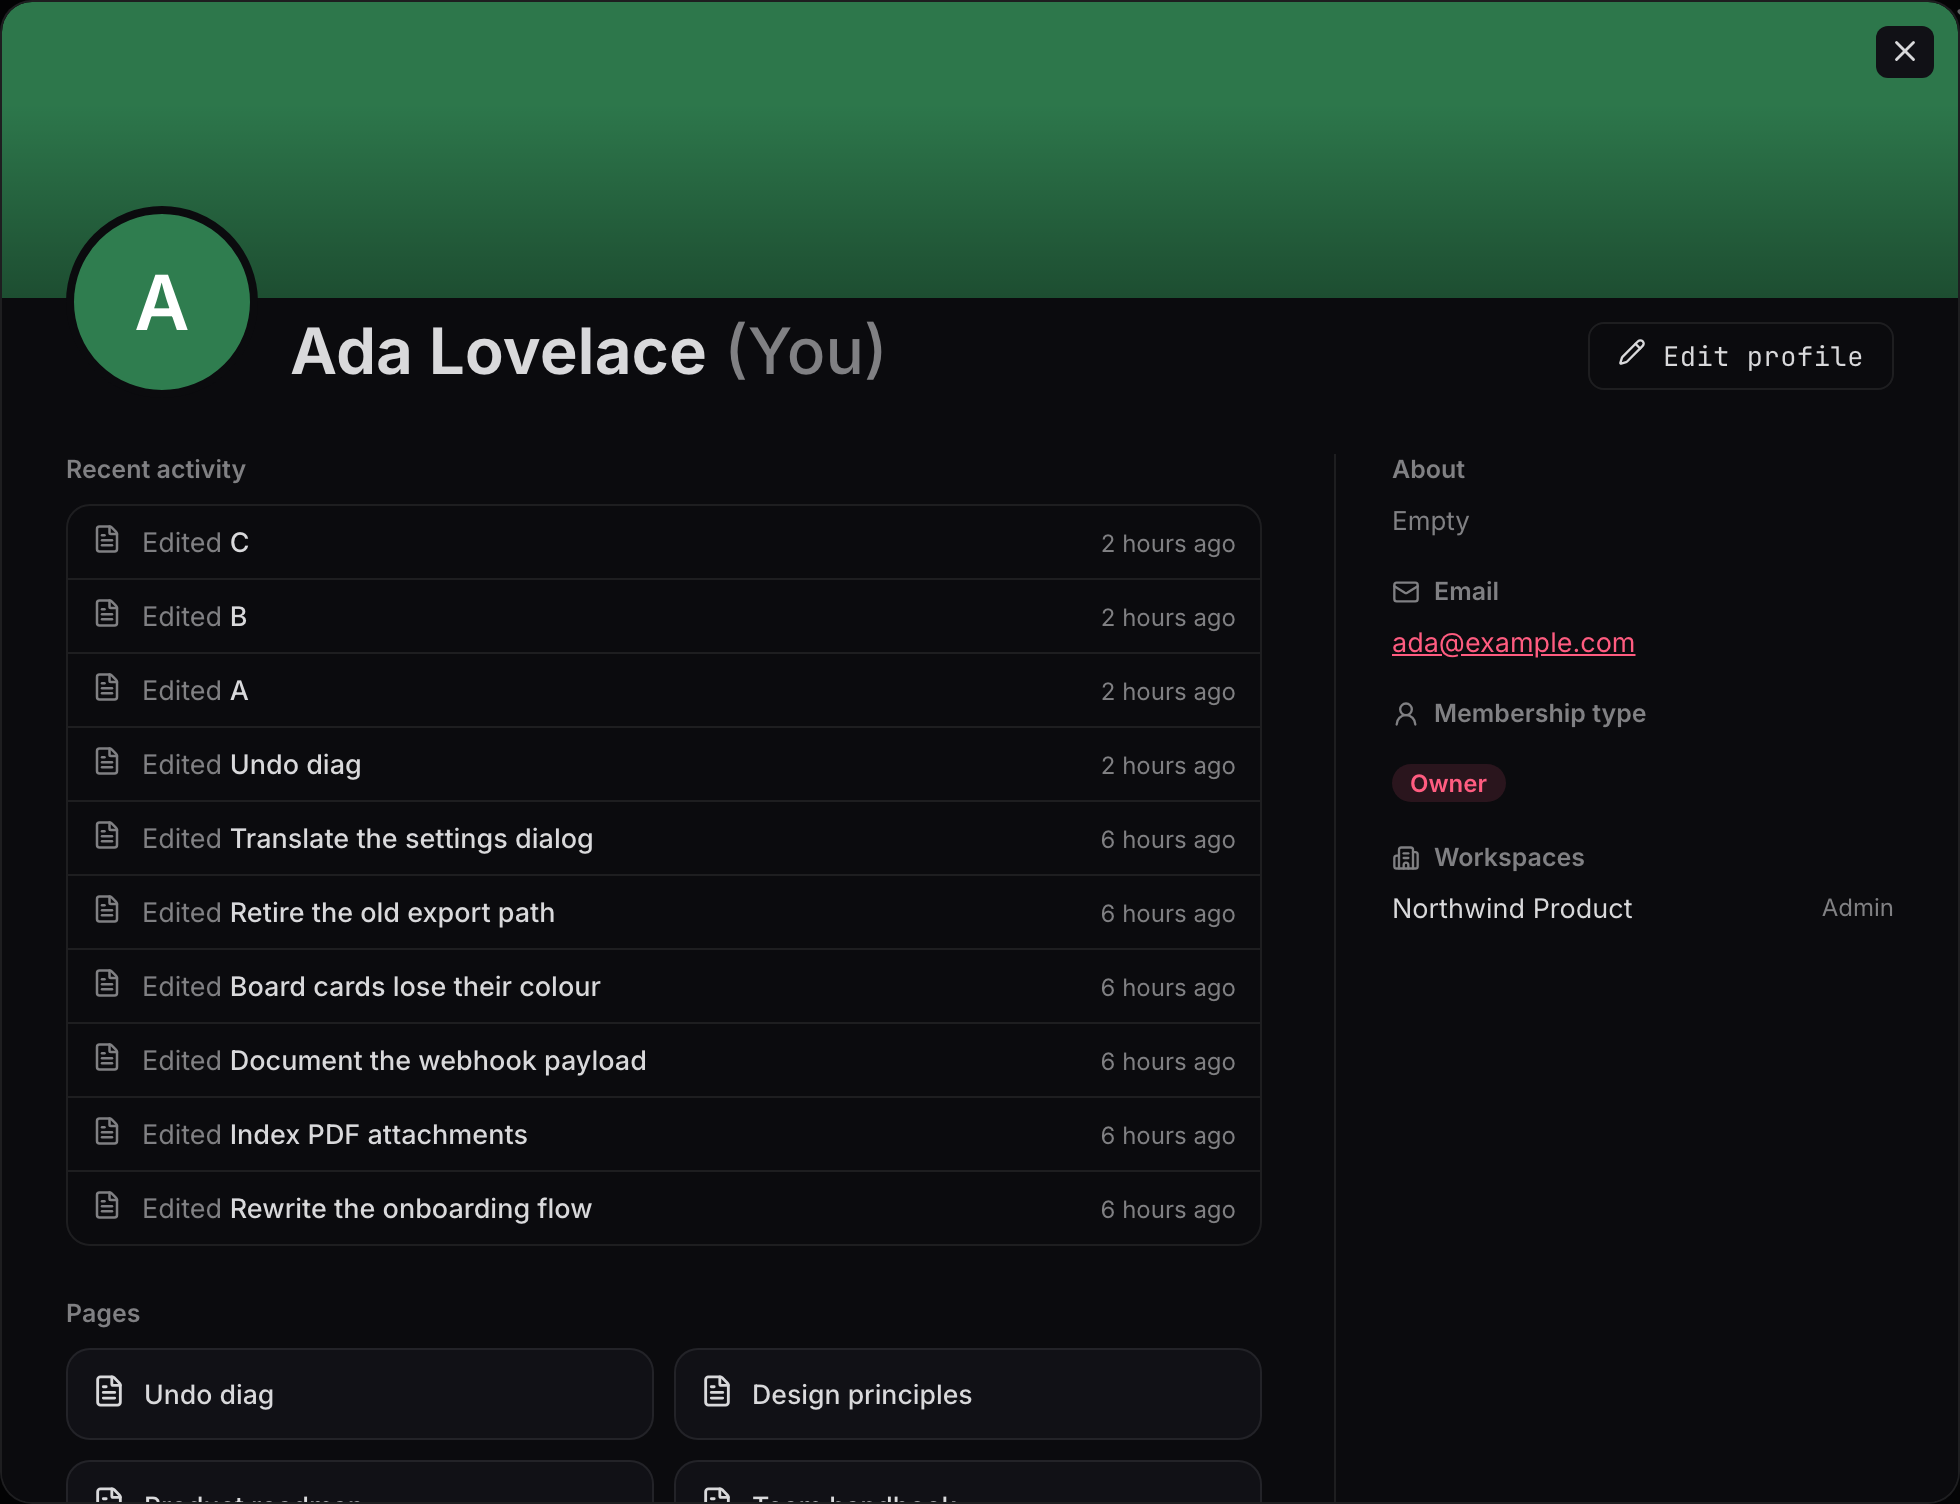
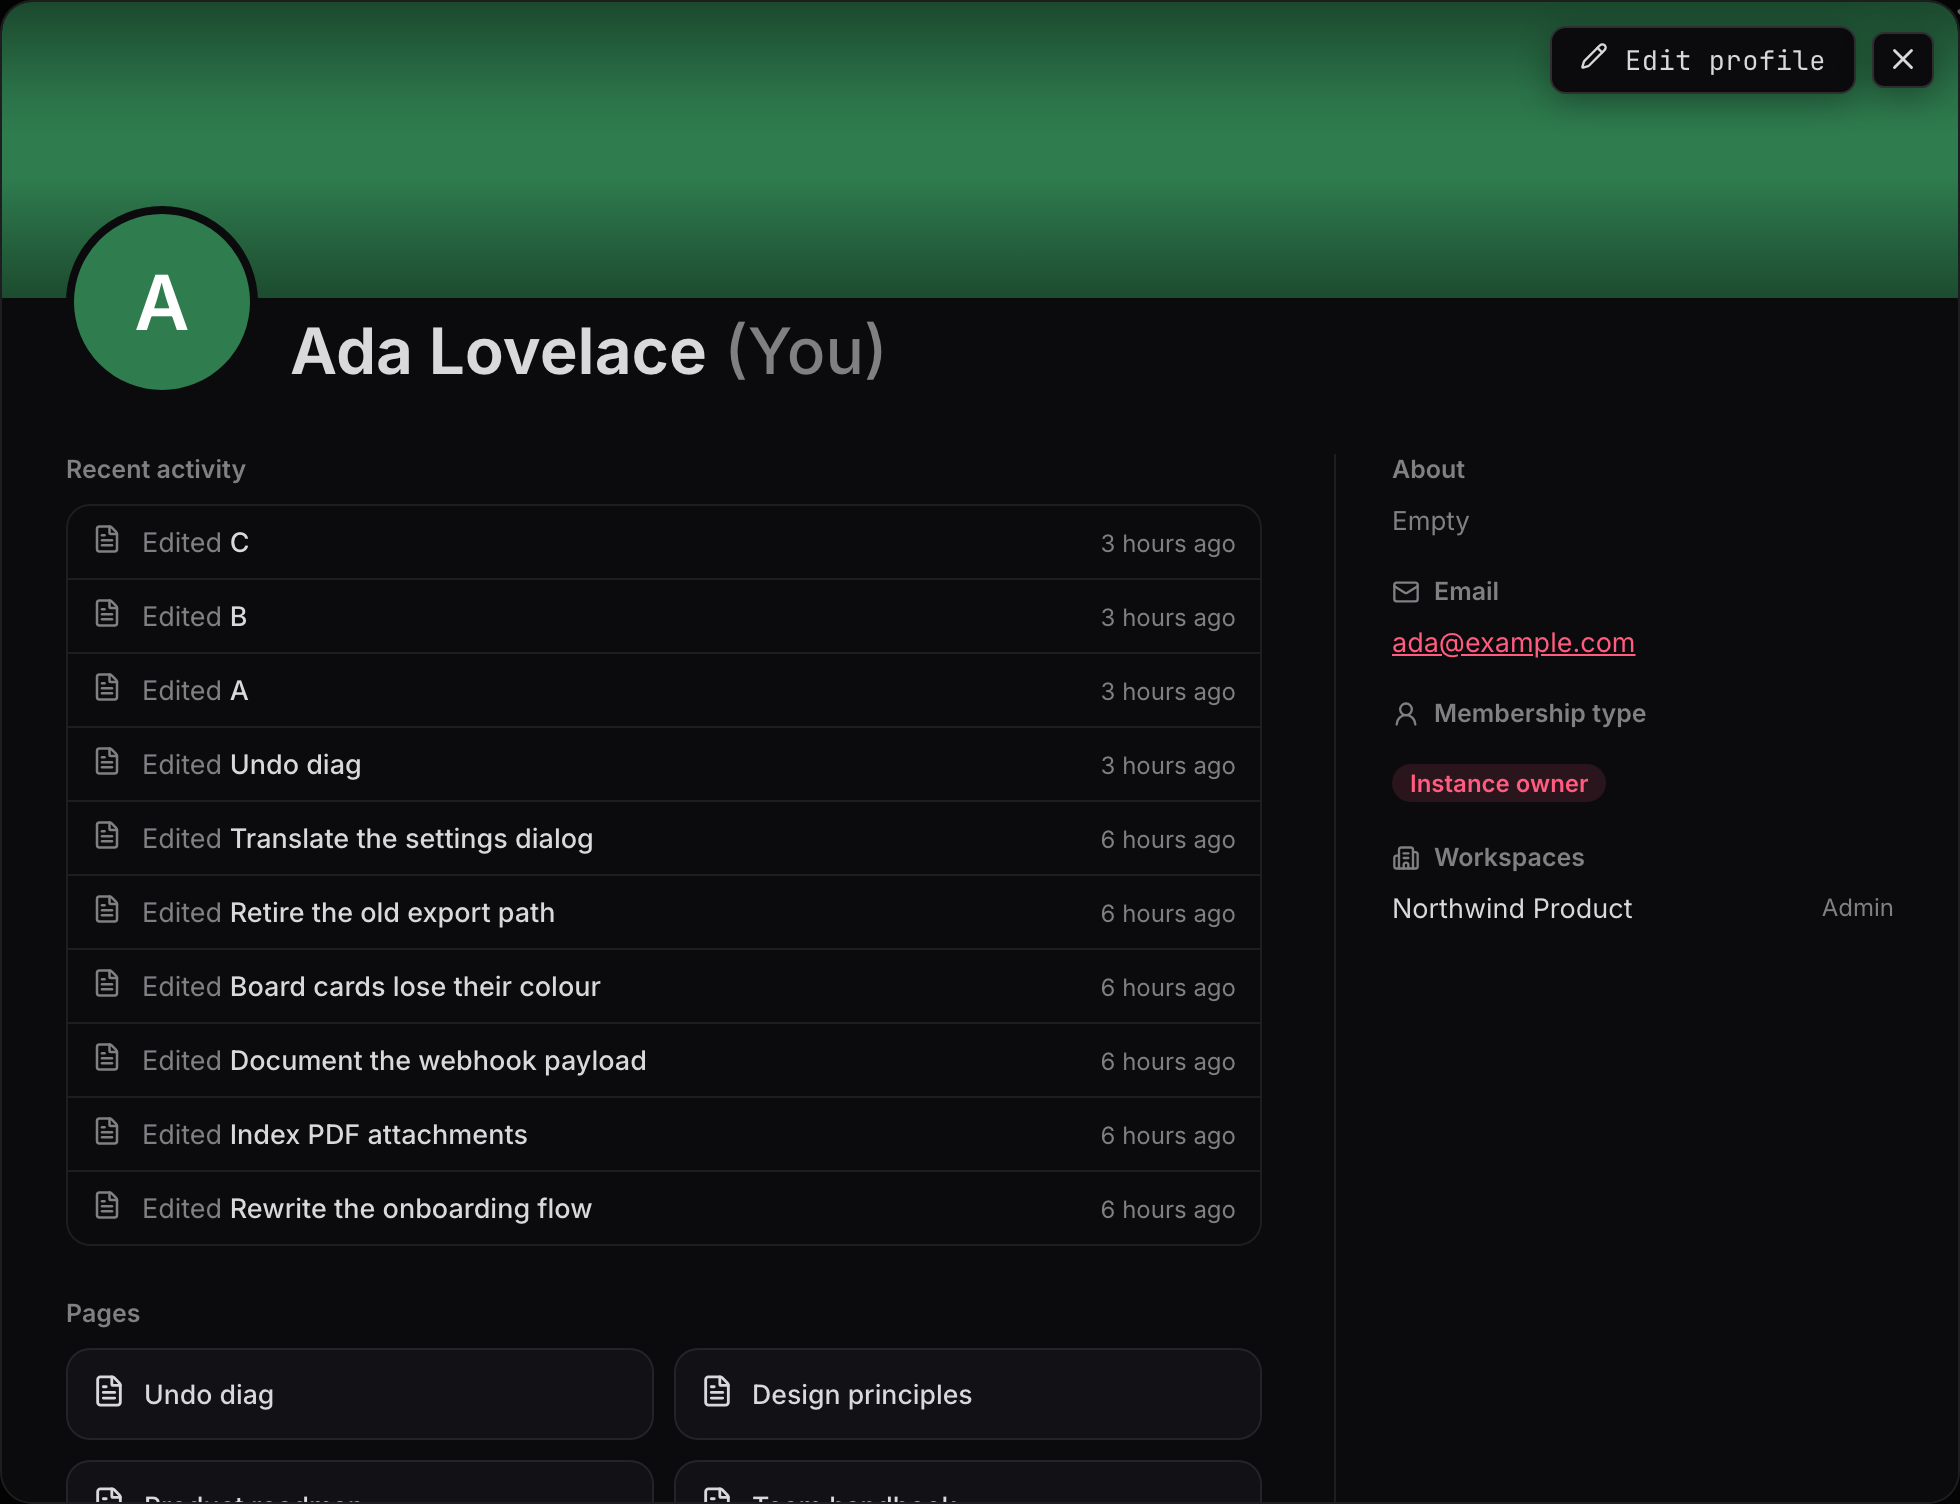
Account page: the name gets its line, contacts come first on a phone
Three things the first phone screenshot showed. A long name broke
mid-word into three lines because the edit button shared its row; the
button now sits with the close at the top, over the cover, so the name
has the full width (and `break-word` rather than `anywhere` keeps normal
words whole). On a phone the side column — email, membership, shared
workspaces — comes before the activity and pages: contacts and
memberships are what "who is this" means.

The top actions needed a plate of their own: theme.css makes a plain
.btn transparent, and over a cover that read as bare text on the colour.
Both buttons now have a solid background, a border and a shadow, and the
cover carries a dark fade at its top edge so the row sits on something.
The membership chip also says "Instance owner" rather than the Owner
column's "Ответственный".

Phone screenshot of the result and the retaken wiki image are in the
same commit.

Changed region(s): [[0.0, 0.0, 1.0, 0.0938], [0.7158, 0.5, 0.8403, 0.5312], [0.8403, 0.2188, 0.9337, 0.25]]

diff --git a/web/src/styles.css b/web/src/styles.css
@@ -13161,12 +13161,27 @@ a,
   box-shadow: 0 32px 80px -32px rgba(0, 0, 0, 0.7);
 }
 
-.person-close {
+/* Page actions sit over the cover, clear of the content: the name row gets
+   the whole width, and the edit button never squeezes a long name into
+   three-letter lines. */
+.person-actions {
   position: absolute;
   top: 12px;
   right: 12px;
   z-index: 2;
-  background: var(--card);
+  display: flex;
+  align-items: center;
+  gap: 8px;
+}
+
+/* A plate of its own: theme.css makes a plain .btn transparent (the site's
+   glass button), and over a cover that read as bare text floating on the
+   colour. The selector is more specific than that rule, not !important. */
+.person-actions .btn:not(.primary):not(.danger),
+.person-close {
+  background: var(--bg);
+  border: 1px solid var(--border-strong);
+  box-shadow: 0 4px 16px rgba(0, 0, 0, 0.32);
 }
 
 .person-cover {
@@ -13179,14 +13194,24 @@ a,
   display: block;
   width: 100%;
   height: 100%;
-  background: linear-gradient(180deg, rgba(0, 0, 0, 0.05) 35%, rgba(0, 0, 0, 0.38) 100%);
+  /* Darkened at both ends: the top so the action buttons have something to
+     sit on, the bottom so the face and name land on the cover cleanly. */
+  background: linear-gradient(
+    180deg,
+    rgba(0, 0, 0, 0.42) 0%,
+    rgba(0, 0, 0, 0.1) 30%,
+    rgba(0, 0, 0, 0) 46%,
+    rgba(0, 0, 0, 0) 58%,
+    rgba(0, 0, 0, 0.4) 100%
+  );
 }
 
 .person-head {
   position: relative;
   display: flex;
   align-items: flex-end;
-  gap: 16px;
+  flex-wrap: wrap;
+  gap: 12px 16px;
   padding: 0 32px 6px;
   margin-top: -46px;
 }
@@ -13212,8 +13237,11 @@ a,
   object-fit: cover;
 }
 
+/* A basis rather than a bare grow: when the head runs out of room the edit
+   button moves to its own line instead of squeezing the name into three
+   letters per line. */
 .person-head-text {
-  flex: 1;
+  flex: 1 1 220px;
   min-width: 0;
   padding-bottom: 4px;
 }
@@ -13223,7 +13251,9 @@ a,
   font-size: clamp(24px, 3.6vw, 32px);
   line-height: 1.15;
   font-weight: 650;
-  overflow-wrap: anywhere;
+  /* break-word, not anywhere: an unbroken long name still wraps, but ordinary
+     words keep whole instead of splitting mid-word in a narrow box. */
+  overflow-wrap: break-word;
 }
 
 .person-you {
@@ -13242,11 +13272,6 @@ a,
   margin: 6px 0 0;
   color: var(--muted);
   font-size: 13.5px;
-}
-
-.person-edit {
-  flex: none;
-  margin-bottom: 4px;
 }
 
 .person-body {

diff --git a/web/src/components/PersonPage.tsx b/web/src/components/PersonPage.tsx
@@ -21,7 +21,9 @@ import Portal from './Portal';
 function roleWord(role: string | undefined): string {
   switch (role) {
     case 'owner':
-      return t('Owner');
+      // Not t('Owner'): that source is the usual name of an Owner column and
+      // reads "Ответственный" in Russian. This is the instance owner.
+      return t('Instance owner');
     case 'admin':
       return t('Admin');
     case 'member':
@@ -83,9 +85,16 @@ export default function PersonPage({
         }}
       >
         <div className="person-page" role="dialog" aria-modal="true" aria-label={user ? user.name : t('Account')}>
-          <button className="person-close icon-btn" onClick={onClose} aria-label={t('Close')} title={t('Close')}>
-            <X size={17} />
-          </button>
+          <div className="person-actions">
+            {profile?.isYou && onEditSelf && (
+              <button className="btn person-edit" onClick={onEditSelf}>
+                <Pencil size={14} /> {t('Edit profile')}
+              </button>
+            )}
+            <button className="person-close icon-btn" onClick={onClose} aria-label={t('Close')} title={t('Close')}>
+              <X size={17} />
+            </button>
+          </div>
 
           {!profile ? (
             <div className="person-empty dialog-hint">
@@ -121,11 +130,6 @@ export default function PersonPage({
                   {nick && <div className="person-nick">@{nick}</div>}
                   {user!.about ? <p className="person-about-lead">{user!.about}</p> : null}
                 </div>
-                {profile.isYou && onEditSelf && (
-                  <button className="btn person-edit" onClick={onEditSelf}>
-                    <Pencil size={14} /> {t('Edit profile')}
-                  </button>
-                )}
               </div>
 
               <div className="person-body">

diff --git a/web/src/mobile.css b/web/src/mobile.css
@@ -1536,24 +1536,25 @@ body.tabs-dragging .tabs-sheet-card {
     font-size: 24px;
   }
 
-  .person-edit {
-    margin-left: auto;
-  }
-
   .person-body {
     grid-template-columns: 1fr;
     gap: 20px;
     padding: 16px 16px 24px;
   }
 
+  /* Contacts and memberships answer "who is this" and come first; what the
+     person has been writing is the second question. */
   .person-side {
+    order: -1;
     border-left: none;
     padding-left: 0;
-    border-top: 1px solid var(--border);
-    padding-top: 16px;
+    border-top: none;
+    padding-top: 0;
+    border-bottom: 1px solid var(--border);
+    padding-bottom: 16px;
   }
 
-  .person-close {
+  .person-actions {
     top: 10px;
     right: 10px;
   }
